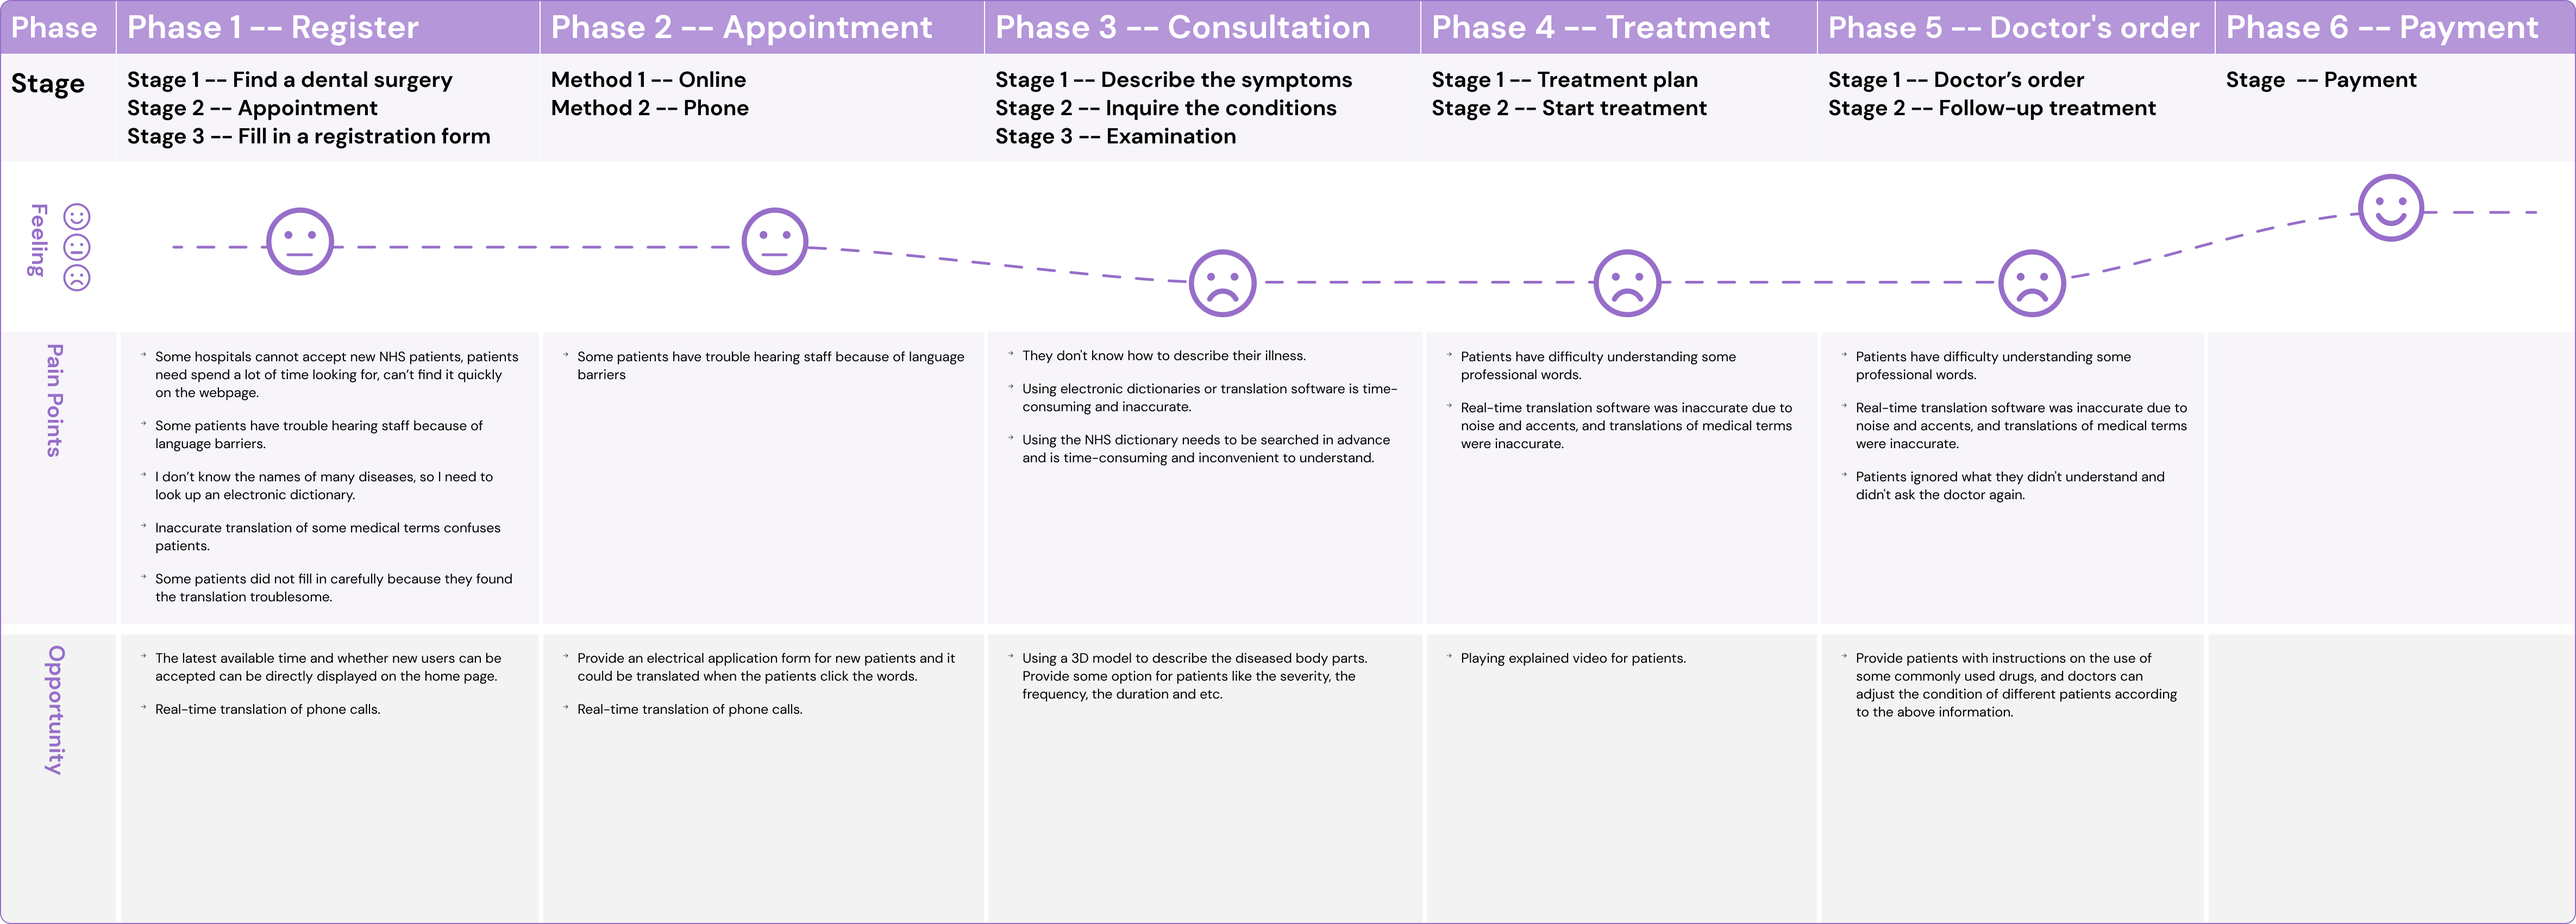
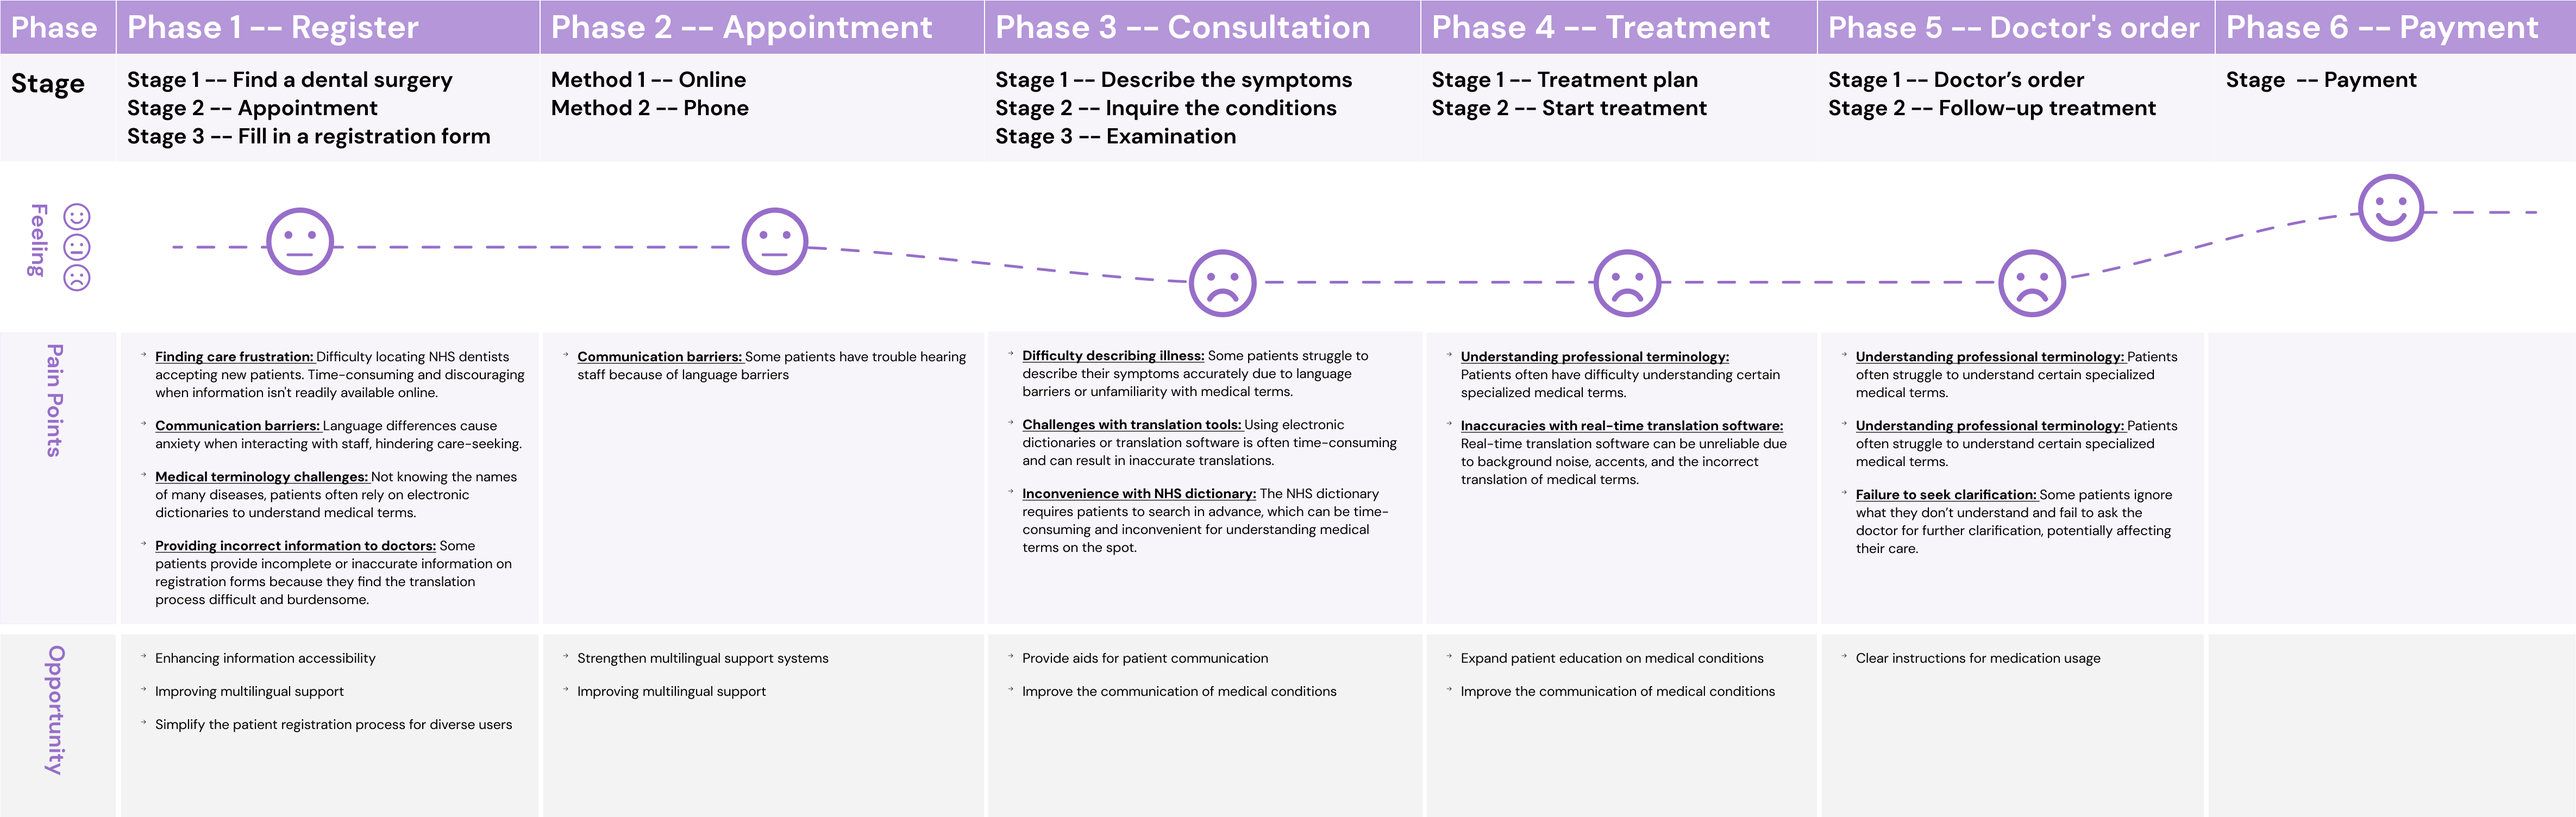
18/09/2024

diff --git a/dentalcare.html b/dentalcare.html
@@ -1,3 +1,4 @@
+No
 <!DOCTYPE HTML>
 
 <html>
@@ -61,7 +62,7 @@
 
 		<div id="" class="container">
 			<header>
-				<h2>Problem Statement</h2>
+				<h2>Project Goal</h2>
 				<p>Improve the user experience of Non-native English-speaking patients, making patients feel more
 					confident in their communication.</p>
 			</header>
@@ -105,15 +106,25 @@
 				<img src="images/dentalcare/userjourney.png" alt="User Journey" />
 			</div>
 			<h3>Current Solutions:</h3>
-			<div class="col-6 col-12-medium image " style='margin: 1em 0 1em 0'><img
-					src="images/dentalcare/currentsolution1.png" alt="Current Solution 1" />
-			</div>
-			<div class="col-6 col-12-medium image " style='margin: 1em 0 1em 0'>
-				<img src="images/dentalcare/currentsolution2.png" alt="Current Solution 2" />
-			</div>
+			<p>There are two main methods to help patients overcome communication barriers:</p>
 			<div class="row">
 
+
 			</div>
+
+			<div class="col-6 col-12-medium image " style='margin: 1em 0 1em 0'>
+				<p>● <strong>Method 1:</strong> Using
+					interpretation services, which include professional interpreters and family members or using
+					translation
+					software or applications. </p><img src="images/dentalcare/currentsolution1.png"
+					alt="Current Solution 1" />
+			</div>
+
+			<div class="col-6 col-12-medium image " style='margin: 1em 0 1em 0'>
+				<p>● <strong>Method 2:</strong>Using medical-related software during their medical visits.</p>
+				<img src="images/dentalcare/currentsolution2.png" alt="Current Solution 2" />
+			</div>
+
 			<h3>Insights from research:</h3>
 			<p>● Difficulty in accurately describing their illness<br>● Difficult to understand some of the medical
 				knowledge</p>
